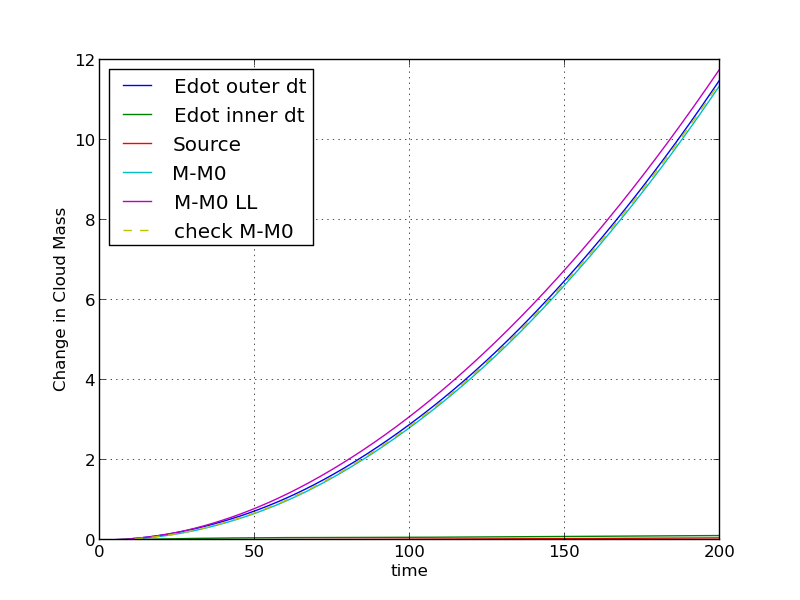
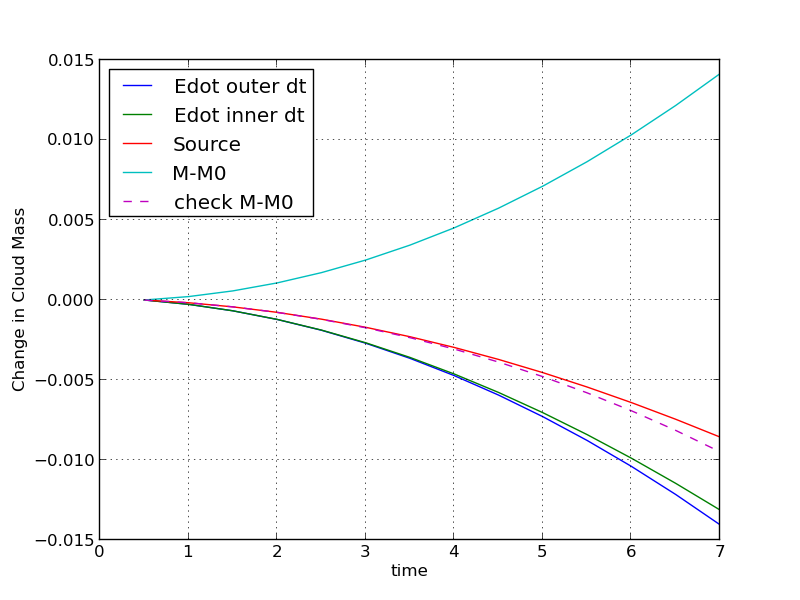
Amends to conserved quantities

diff --git a/Examples/Oscillaton/MatterEnergy.hpp b/Examples/Oscillaton/MatterEnergy.hpp
@@ -52,11 +52,11 @@ template <class matter_t> class MatterEnergy
         const emtensor_t<data_t> emtensor =
             my_matter.compute_emtensor(vars, d1, h_UU, chris.ULL);
         const data_t det_gamma = pow(vars.chi, -3.0);
-        Tensor<2, data_t> vars_gamma, vars_Kij;
+        Tensor<2, data_t> vars_gamma, vars_K_tensor;
         FOR2(i, j)
         {
             vars_gamma[i][j] = vars.h[i][j] / vars.chi;
-            vars_Kij[i][j] =
+            vars_K_tensor[i][j] =
                 1.0 / vars.chi * (vars.A[i][j] + 1.0 / 3.0 * vars.h[i][j]);
         }
         const auto gamma_UU = compute_inverse_sym(vars_gamma);
@@ -85,10 +85,42 @@ template <class matter_t> class MatterEnergy
         data_t sqrt_det_Sigma = area_element_sphere(spherical_gamma);
 
         // calculate according to Landau Lifshitz method
-        data_t g = vars.lapse * vars.lapse * det_gamma;
-        data_t rho1 = sqrt_det_Sigma / r2sintheta * Ni_L[0]; // CHECK THE SAME
-        data_t flux1 = sqrt(det_gamma) * si_L[0];            // AS ME
-        data_t source1 = 0.0; // ADD EXPRESSIONS HERE
+        data_t rho1 = emtensor.rho * det_gamma;
+
+        // Energy flux
+        data_t flux1 = 0.0;
+        FOR1(i)
+        {
+            flux1 += -si_L[i] * vars.shift[i] * emtensor.rho;
+
+            FOR1(j)
+            {
+                flux1 += vars.lapse * si_L[i] * emtensor.Si[j] *
+                        gamma_UU[i][j];
+            }
+        }
+        flux1 *= det_gamma;
+
+        // calculate the E source (should be zero?)
+        data_t dlapsedt = -2.0 * vars.lapse * vars.K;
+        data_t source1 = emtensor.rho * dlapsedt / vars.lapse;
+        FOR1(i)
+        {
+            source1 += -vars.shift[i] * emtensor.rho *
+                       d1.lapse[i] / vars.lapse;
+            FOR1(j)
+            {
+                source1 += 2.0 * gamma_UU[i][j] * emtensor.Si[i] *
+                           d1.lapse[j];
+                FOR2(k, l)
+                {
+                    source1 += -vars.lapse * emtensor.Sij[i][j] *
+                               gamma_UU[i][k] * gamma_UU[j][l] *
+                               vars_K_tensor[k][l];
+                }
+            }
+        }
+        source1 *= det_gamma;
 
         // calculate according to Killing vector method
         data_t rho2 = -emtensor.rho * vars.lapse;
@@ -113,7 +145,7 @@ template <class matter_t> class MatterEnergy
         }
         flux2 *= sqrt_det_Sigma / r2sintheta;
 
-        data_t dlapsedt = -2.0 * vars.lapse * vars.K;
+        // the KV method source
         Tensor<1, data_t> dbetadt;
         FOR1(i) { dbetadt[i] = vars.B[i]; }
         data_t source2 = -emtensor.rho * dlapsedt;
@@ -129,8 +161,8 @@ template <class matter_t> class MatterEnergy
                 {
                     source2 +=
                         emtensor.Si[i] * vars.shift[j] *
-                            (-vars.lapse * gamma_UU[i][k] * vars_Kij[k][j] +
-                             vars.shift[i] * vars.shift[k] * vars_Kij[j][k] /
+                            (-vars.lapse * gamma_UU[i][k] * vars_K_tensor[k][j] +
+                             vars.shift[i] * vars.shift[k] * vars_K_tensor[j][k] /
                                  vars.lapse +
                              vars.shift[k] * chris_phys[i][j][k]) +
                         emtensor.Sij[k][j] * gamma_UU[i][k] * vars.lapse *
@@ -139,7 +171,7 @@ template <class matter_t> class MatterEnergy
                     {
                         source2 += -vars.lapse * vars.lapse * gamma_UU[i][k] *
                                        gamma_UU[j][l] * emtensor.Sij[k][l] *
-                                       vars_Kij[i][j] +
+                                       vars_K_tensor[i][j] +
                                    vars.lapse * gamma_UU[i][k] *
                                        emtensor.Sij[k][j] * vars.shift[l] *
                                        chris_phys[j][l][i];

diff --git a/Examples/Oscillaton/ScalarFieldLevel.cpp b/Examples/Oscillaton/ScalarFieldLevel.cpp
@@ -176,19 +176,21 @@ void ScalarFieldLevel::specificPostTimeStep()
 
         // integrate the densities and write to a file
         AMRReductions<VariableType::diagnostic> amr_reductions(m_gr_amr);
-        double rho_sum = amr_reductions.sum(c_rho2);
-        double source_sum = amr_reductions.sum(c_source2);
+        double rho1_sum = amr_reductions.sum(c_rho1);
+        double rho2_sum = amr_reductions.sum(c_rho2);
+        double source1_sum = amr_reductions.sum(c_source1);
+        double source2_sum = amr_reductions.sum(c_source2);
 
         SmallDataIO integral_file("VolumeIntegrals", m_dt, m_time,
                                   m_restart_time, SmallDataIO::APPEND,
                                   first_step);
         // remove any duplicate data if this is post restart
         integral_file.remove_duplicate_time_data();
-        std::vector<double> data_for_writing = {rho_sum, source_sum};
+        std::vector<double> data_for_writing = {rho1_sum, rho2_sum, source1_sum, source2_sum};
         // write data
         if (first_step)
         {
-            integral_file.write_header_line({"rho", "source"});
+            integral_file.write_header_line({"rho1", "rho2", "source1", "source2"});
         }
         integral_file.write_time_data_line(data_for_writing);
 

diff --git a/FixedBGExamples/IsoBoostedBHComplexScalar/plotenergy.py b/FixedBGExamples/IsoBoostedBHComplexScalar/plotenergy.py
@@ -19,8 +19,8 @@ dM = symmetry*data1[:,1] - symmetry*data1[0,1]
 Source = symmetry*data1[:,2]
 
 
-data1 = np.loadtxt("LandauLif/VolumeIntegrals.dat")
-dM2 = symmetry*data1[:,1] - symmetry*data1[0,1]
+#data1 = np.loadtxt("VolumeIntegrals.dat")
+#dM2 = symmetry*data1[:,1] - symmetry*data1[0,1]
 
 # flux dataset out
 data1 = np.loadtxt("SurfaceIntegrals.dat")
@@ -42,7 +42,7 @@ plt.plot(timedata, FEodt, '-', lw = 1.0, label="Edot outer dt")
 plt.plot(timedata, FEidt, '-', lw = 1.0, label="Edot inner dt")
 plt.plot(timedata, Source_dt, '-', lw = 1.0, label="Source")
 plt.plot(timedata, dM, '-', lw = 1.0, label="M-M0")
-plt.plot(timedata, dM2, '-', lw = 1.0, label="M-M0 LL")
+#plt.plot(timedata, dM2, '-', lw = 1.0, label="M-M0 LL")
 plt.plot(timedata, FEodt - FEidt + Source_dt, '--', lw = 1.0, label="check M-M0")
 
 # make the plot look nice

diff --git a/FixedBGExamples/IsoBoostedBHComplexScalar/FixedBGConservedQuantities.hpp b/FixedBGExamples/IsoBoostedBHComplexScalar/FixedBGConservedQuantities.hpp
@@ -285,6 +285,11 @@ template <class matter_t, class background_t> class FixedBGConservedQuantities
         }
         sourceE *= det_gamma;
 
+        // MOM QUANTITIES
+        // LL METHOD
+
+        // write me!
+
         // assign values of Momentum quantities in the output box
         current_cell.store_vars(rhoM, c_rhoM);
         current_cell.store_vars(Mdot, c_Mdot);
